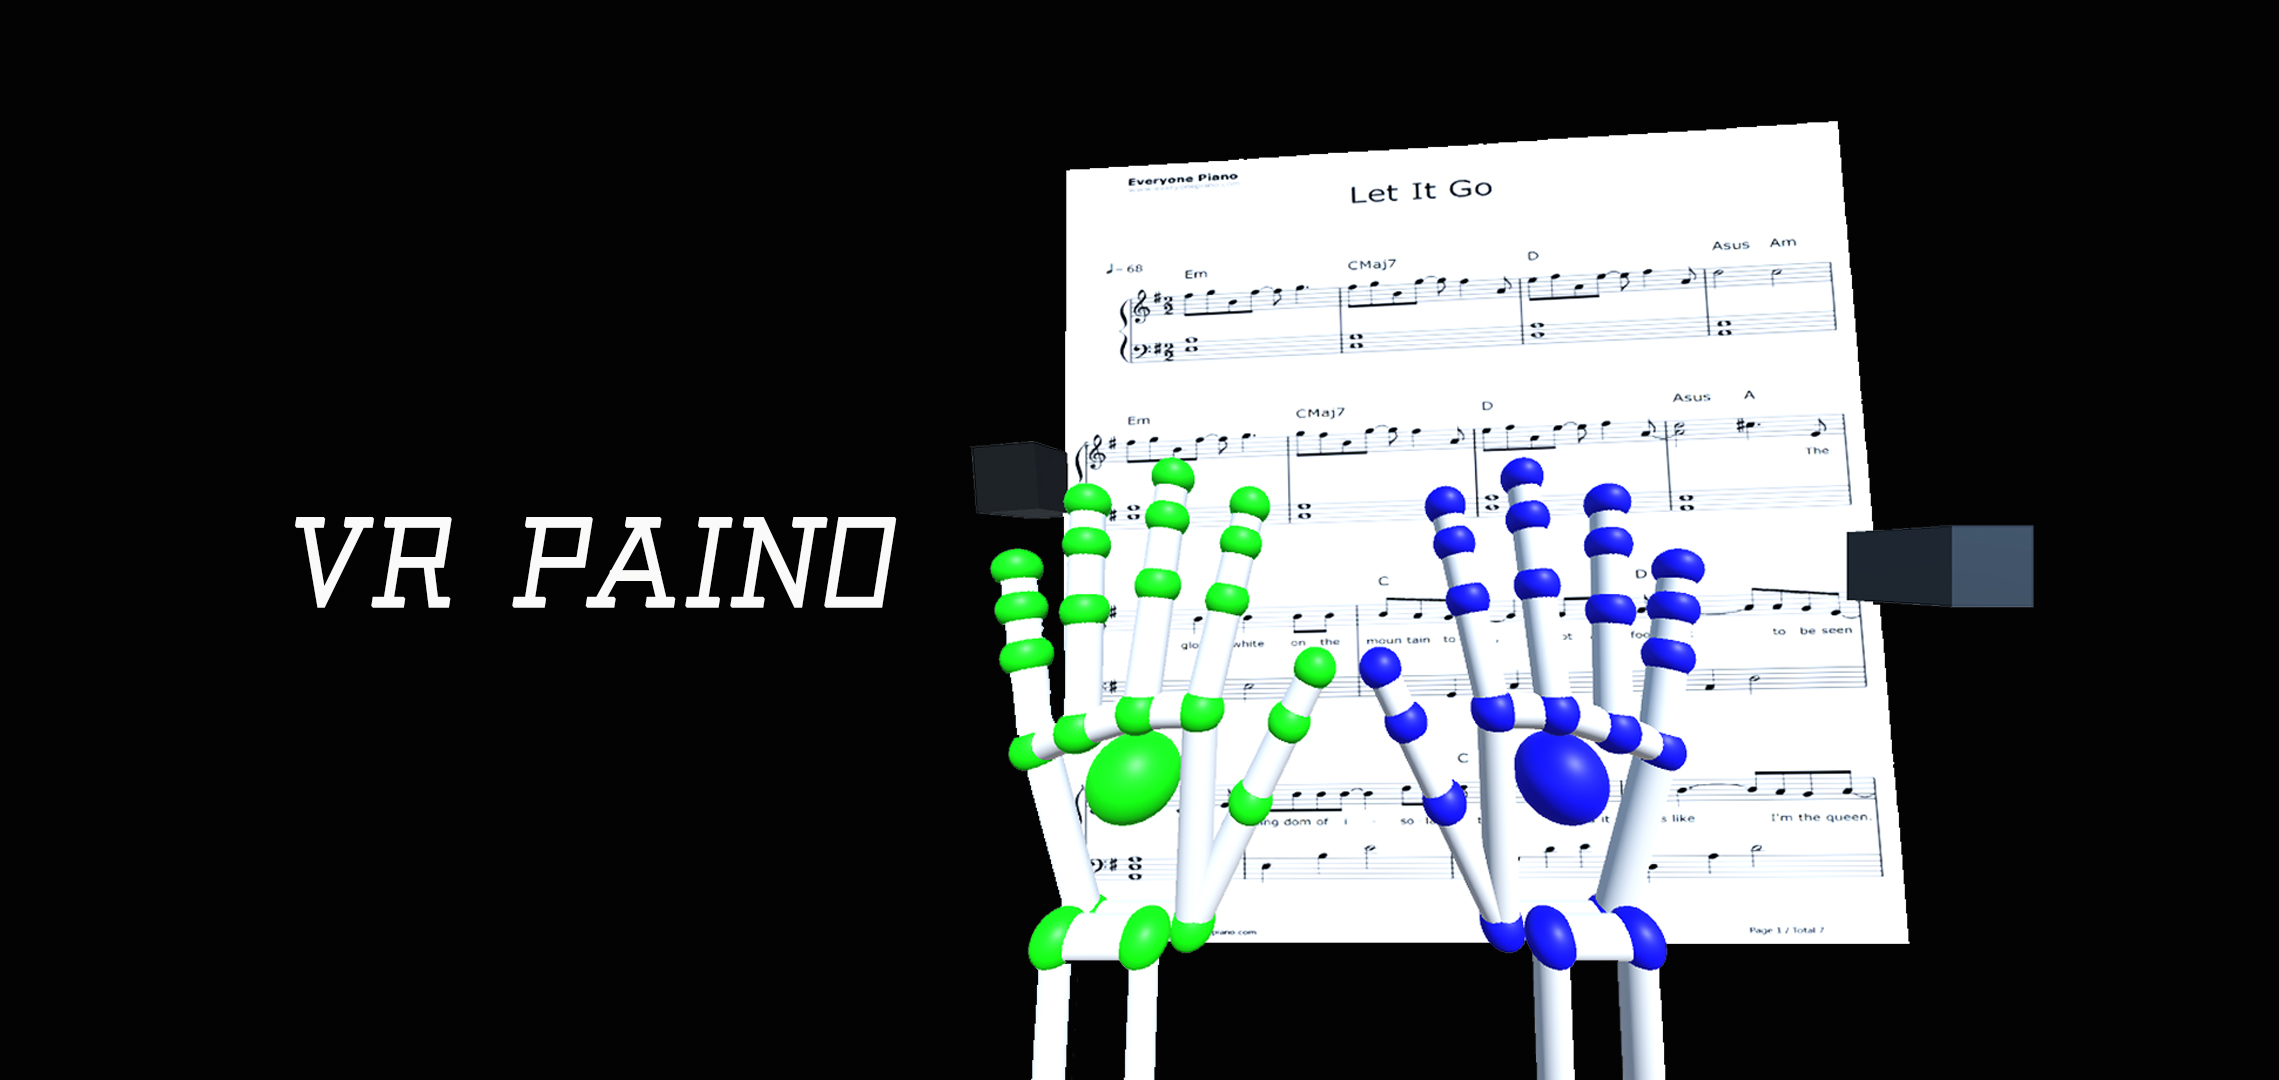
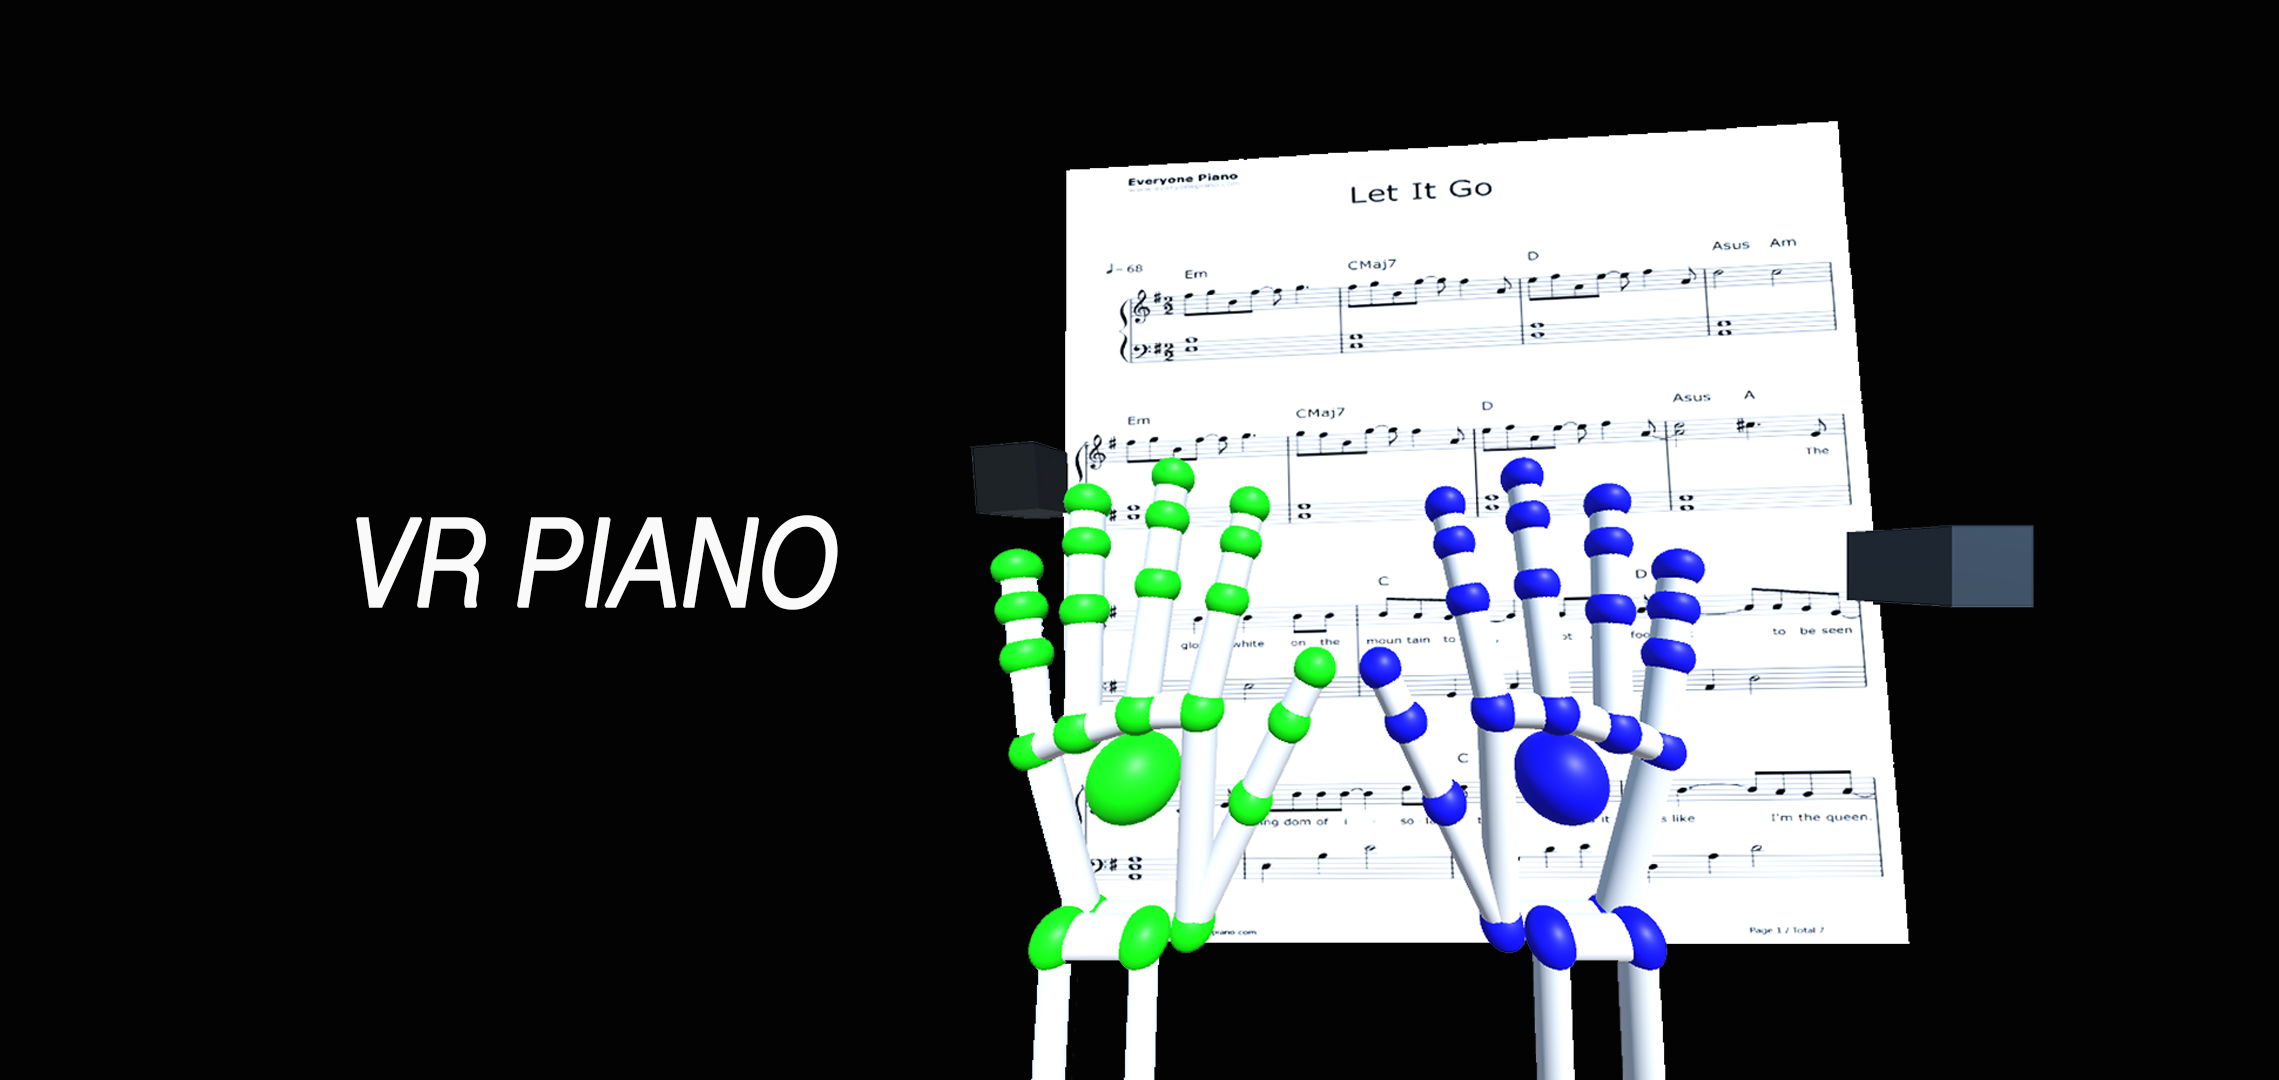
Font change, correct typo, add share button

Changed region(s): [[0.1246, 0.4583, 0.405, 0.5806]]

diff --git a/holo.html b/holo.html
@@ -99,7 +99,7 @@
             <!-- /.col-lg-10 -->
         </div>
 <div class="maintext">
-            <h1>The Holojam research platform is the project that Media Research Lab has been working on over a year.
+            <p>The Holojam research platform is the project that Media Research Lab has been working on over a year.
               Our specific research focus is on studying how people in the future might share a physical space together on a day to day basis,
               if they have the power-ups that come from being able to see literally any visual representation of each other and of the world around them that they wish -- whether or not that visual representation is physically possible.<br>
               Holojam supports investigations into how people in the future might share a physical space together,
@@ -108,7 +108,7 @@
               Holojam shows each freely roaming participant the world around them rebuilt entirely out of computer graphics.
                Repurposing currently available hardware, shared real-time user experiences are supported using only the graphics available on lightweight SmartPhone based HMDs,
                situated in a motion capture lab.<br>
-             I worked and still working as a Unity Developer in the research team. My work involves backend development, interaction design, interaction implementation.</h1>
+             I worked and still working as a Unity Developer in the research team. My work involves backend development, interaction design, interaction implementation.</p>
           </div>
 
         <!-- /.row -->
@@ -142,6 +142,12 @@
                     </li>
                     <li>
                         <a href="https://www.linkedin.com/in/wenbo-lan-a2aa5986"><i class="fa fa-linkedin fa-fw fa-3x"></i></a>
+                    </li>
+                    <li>
+                      <iframe src="https://www.facebook.com/plugins/share_button.php?href=http%3A%2F%2Fwww.wenbolan.com%2Fholo.html&layout=button_count&mobile_iframe=true&width=87&height=20&appId" width="87" height="20" style="border:none;overflow:hidden" scrolling="no" frameborder="0" allowTransparency="true"></iframe>
+                    </li>
+                    <li>
+                      <a href="https://twitter.com/share" class="twitter-share-button" data-via="leo92613" data-size="large">Tweet</a> <script>!function(d,s,id){var js,fjs=d.getElementsByTagName(s)[0],p=/^http:/.test(d.location)?'http':'https';if(!d.getElementById(id)){js=d.createElement(s);js.id=id;js.src=p+'://platform.twitter.com/widgets.js';fjs.parentNode.insertBefore(js,fjs);}}(document, 'script', 'twitter-wjs');</script>
                     </li>
                 </ul>
                 <hr class="small">

diff --git a/dual.html b/dual.html
@@ -83,14 +83,14 @@
             <!-- /.col-lg-10 -->
         </div>
 <div class="maintext">
-            <h1>This is Media Research Lab's most recent Holojam project centered around a performance between two dancers (Maria Lantin and Ken Perlin).
+            <p>This is Media Research Lab's most recent Holojam project centered around a performance between two dancers (Maria Lantin and Ken Perlin).
                We chose to represent the avatars in an abstract way, highlighting the central topic of the work: a collision of black holes.<br>
 	            The interesting thing about this project was the asymmetrical representation of the avatars.
               Each of the dancers saw each other as masks, which allowed for a more personal and intimate form of interaction,
               while the audience saw an abstract set of rings in the position of the hands and head.<br>
               I worked as technician in the team.<br>
-              More info can be found <u><a href="http://www.peppersghost.org/?page_id=341" target="_blank" style="color:white">here</a></u> and <u><a href="http://oneartspace.com/pdf/PressRelease-scores+traces.pdf" target="_blank" style="color:white">here</a></u> 
-            </h1>
+              More info can be found <u><a href="http://www.peppersghost.org/?page_id=341" target="_blank" style="color:white">here</a></u> and <u><a href="http://oneartspace.com/pdf/PressRelease-scores+traces.pdf" target="_blank" style="color:white">here</a></u>
+            </p>
           </div>
 
         <!-- /.row -->
@@ -124,6 +124,12 @@
                     </li>
                     <li>
                         <a href="https://www.linkedin.com/in/wenbo-lan-a2aa5986"><i class="fa fa-linkedin fa-fw fa-3x"></i></a>
+                    </li>
+                    <li>
+                      <iframe src="https://www.facebook.com/plugins/share_button.php?href=http%3A%2F%2Fwww.wenbolan.com%2Fdual.html&layout=button_count&mobile_iframe=true&width=87&height=20&appId" width="87" height="20" style="border:none;overflow:hidden" scrolling="no" frameborder="0" allowTransparency="true"></iframe>
+                    </li>
+                    <li>
+                      <a href="https://twitter.com/share" class="twitter-share-button" data-via="leo92613" data-size="large">Tweet</a> <script>!function(d,s,id){var js,fjs=d.getElementsByTagName(s)[0],p=/^http:/.test(d.location)?'http':'https';if(!d.getElementById(id)){js=d.createElement(s);js.id=id;js.src=p+'://platform.twitter.com/widgets.js';fjs.parentNode.insertBefore(js,fjs);}}(document, 'script', 'twitter-wjs');</script>
                     </li>
                 </ul>
                 <hr class="small">

diff --git a/index.html b/index.html
@@ -75,7 +75,7 @@
                 <div class="col-lg-12 text-center">
                     <div class="user" ></div>
                     <h2>&lt;A Coder&gt;</h2>
-                    <p class="lead">I'm currently a NYU Master student of Computer Science. My interests include Computer Vision, Computer Graphic and Visualization. At present I devote myself to VR developement and work at Media Research Lab of NYU as Software Developer under supervision of Prof. Ken Perlin.</p>
+                    <p class="lead">I'm currently a NYU Master student of Computer Science. My interests include Computer Vision, Computer Graphic and Visualization. At present I devote myself to VR development and work at Media Research Lab of NYU as Software Developer under supervision of Prof. Ken Perlin.</p>
                 </div>
             </div>
             <!-- /.row -->
@@ -162,7 +162,7 @@
                     <div class="row">
                         <div class="col-md-6">
                             <div class="portfolio-item">
-                                <a href="test1.html">
+                                <a href="hypercube.html">
                                     <img class="img-portfolio img-responsive" src="img/weibosmallsize01.jpg">
                                 </a>
                                 A VR 4-Dimensional world-building Project. On HTC Vive.
@@ -264,6 +264,12 @@
                         </li>
                         <li>
                             <a href="https://www.linkedin.com/in/wenbo-lan-a2aa5986"><i class="fa fa-linkedin fa-fw fa-3x"></i></a>
+                        </li>
+                        <li>
+                        <iframe src="https://www.facebook.com/plugins/share_button.php?href=http%3A%2F%2Fwww.wenbolan.com%2F&layout=button_count&mobile_iframe=true&width=87&height=20&appId" width="87" height="20" style="border:none;overflow:hidden" scrolling="no" frameborder="0" allowTransparency="true"></iframe>
+                        <li>
+                        <li>
+                          <a href="https://twitter.com/share" class="twitter-share-button" data-via="leo92613" data-size="large">Tweet</a> <script>!function(d,s,id){var js,fjs=d.getElementsByTagName(s)[0],p=/^http:/.test(d.location)?'http':'https';if(!d.getElementById(id)){js=d.createElement(s);js.id=id;js.src=p+'://platform.twitter.com/widgets.js';fjs.parentNode.insertBefore(js,fjs);}}(document, 'script', 'twitter-wjs');</script>
                         </li>
                     </ul>
                     <hr class="small">

diff --git a/4dobject.html b/4dobject.html
@@ -105,7 +105,7 @@
 
 
 <div class="maintext">
-            <h1>
+            <p>
               This is a project in which a participant can freely walk around four dimensional objects, such as a hypercube, a 24-Cell or an aerochoron, and can rotate those objects via a 4D virtual trackball, implemented as a generalization of the 3D virtual trackball. <br>
                The orientation of the 4D object is internally represented as a 4×4 rotation matrix.
 To implement the 4D virtual trackball, the interior of a unit sphere volume is lofted to the upper (w >= 0) half of the S2 bounding volume of an S3 hypersphere by mapping  [x,y,z] to [x,y,z,sqrt(1-x<sup>2</sup>-y<sup>2</sup>-z<sup>2</sup>)].<br>
@@ -115,7 +115,7 @@ When the ViveMote is outside the sphere, its position is projected down to the s
  System Requirement: a VR ready Windows Machine, HTC Vive<br>
         Dowaload Link: <u><a href="https://drive.google.com/file/d/0B2egdVOj_PusLWw1WTJnTmRLNmc/view?usp=sharing" target="_blank" style="color:white">Click me to download</a></u>
 
-</h1>
+</p>
           </div>
 
         <!-- /.row -->
@@ -150,6 +150,13 @@ When the ViveMote is outside the sphere, its position is projected down to the s
                     <li>
                         <a href="https://www.linkedin.com/in/wenbo-lan-a2aa5986"><i class="fa fa-linkedin fa-fw fa-3x"></i></a>
                     </li>
+                    <li>
+                      <iframe src="https://www.facebook.com/plugins/share_button.php?href=http%3A%2F%2Fwww.wenbolan.com%2F4dobject.html&layout=button_count&mobile_iframe=true&width=87&height=20&appId" width="87" height="20" style="border:none;overflow:hidden" scrolling="no" frameborder="0" allowTransparency="true"></iframe>
+                    </li>
+                    <li>
+                      <a href="https://twitter.com/share" class="twitter-share-button" data-via="leo92613" data-size="large">Tweet</a> <script>!function(d,s,id){var js,fjs=d.getElementsByTagName(s)[0],p=/^http:/.test(d.location)?'http':'https';if(!d.getElementById(id)){js=d.createElement(s);js.id=id;js.src=p+'://platform.twitter.com/widgets.js';fjs.parentNode.insertBefore(js,fjs);}}(document, 'script', 'twitter-wjs');</script>
+                    </li>
+
                 </ul>
                 <hr class="small">
                 <p class="text-muted">Copyright &copy; Wenbo Lan 2016</p>

diff --git a/vrdj.html b/vrdj.html
@@ -104,7 +104,7 @@
 
 
 <div class="maintext">
-            <h1>I am always curious what is an intuitive way of interaction in VR.
+            <p>I am always curious what is an intuitive way of interaction in VR.
               At present, the mainstream manufacturers design good controller for VR headsets.<br>
               However, for non-hardcore-gamers, it takes time for them to learn the basic input module of
               VR. Base on such fact, together with Zhen Cao, I design and implement this project in which you
@@ -116,7 +116,7 @@
               This project is included in Virtual Reality Lab 2016 Projects, <u><a href="http://timewavefestival.com/vr-lab-2016-projects/" target="_blank" style="color:white">Official Link</a></u><br>
               System Requirement: a MacOS machine, Oculus DK2, Leap Motion<br>
               Dowaload Link: <u><a href="https://drive.google.com/open?id=0B2egdVOj_PusRDZWbmtzR25YeFk" target="_blank" style="color:white">Click me to download</a></u>
-            </h1>
+            </p>
           </div>
 
         <!-- /.row -->
@@ -150,6 +150,12 @@
                     </li>
                     <li>
                         <a href="https://www.linkedin.com/in/wenbo-lan-a2aa5986"><i class="fa fa-linkedin fa-fw fa-3x"></i></a>
+                    </li>
+                    <li>
+                      <iframe src="https://www.facebook.com/plugins/share_button.php?href=http%3A%2F%2Fwww.wenbolan.com%2Fvrdj.html&layout=button_count&mobile_iframe=true&width=87&height=20&appId" width="87" height="20" style="border:none;overflow:hidden" scrolling="no" frameborder="0" allowTransparency="true"></iframe>
+                    </li>
+                    <li>
+                      <a href="https://twitter.com/share" class="twitter-share-button" data-via="leo92613" data-size="large">Tweet</a> <script>!function(d,s,id){var js,fjs=d.getElementsByTagName(s)[0],p=/^http:/.test(d.location)?'http':'https';if(!d.getElementById(id)){js=d.createElement(s);js.id=id;js.src=p+'://platform.twitter.com/widgets.js';fjs.parentNode.insertBefore(js,fjs);}}(document, 'script', 'twitter-wjs');</script>
                     </li>
                 </ul>
                 <hr class="small">

diff --git a/hypercube.html b/hypercube.html
@@ -99,7 +99,7 @@
         </div>
 
 <div class="maintext">
-            <h1>What do you think of a "Minecraft" game in VR, pretty cool, Right? Now, think about using 4 dimensional cubes
+            <p>What do you think of a "Minecraft" game in VR, pretty cool, Right? Now, think about using 4 dimensional cubes
             to build your world! This project is something that probably you can not imagin in your everyday life.<br>
            Collaborating with Prof. Ken Perlin, I design and implement the project in VR.
          As an application of 4D objects, I use dynamic mesh to represent the 4D hypercube. With simple creating, choosing,
@@ -107,7 +107,7 @@
         Note: This project is still undergoing development, let's see what happen next!<br>
         System Requirement: a VR ready Windows Machine, HTC Vive<br>
         Dowaload Link: <u><a href="https://drive.google.com/file/d/0B2egdVOj_PusUHFTbFNLdUJKOWc/view?usp=sharing" target="_blank" style="color:white">Click me to download</a></u>
-      </h1>
+      </p>
           </div>
 
         <!-- /.row -->
@@ -141,6 +141,12 @@
                     </li>
                     <li>
                         <a href="https://www.linkedin.com/in/wenbo-lan-a2aa5986"><i class="fa fa-linkedin fa-fw fa-3x"></i></a>
+                    </li>
+                    <li>
+                      <iframe src="https://www.facebook.com/plugins/share_button.php?href=http%3A%2F%2Fwww.wenbolan.com%2Fhypercube.html&layout=button_count&mobile_iframe=true&width=87&height=20&appId" width="87" height="20" style="border:none;overflow:hidden" scrolling="no" frameborder="0" allowTransparency="true"></iframe>
+                    </li>
+                    <li>
+                      <a href="https://twitter.com/share" class="twitter-share-button" data-via="leo92613" data-size="large">Tweet</a> <script>!function(d,s,id){var js,fjs=d.getElementsByTagName(s)[0],p=/^http:/.test(d.location)?'http':'https';if(!d.getElementById(id)){js=d.createElement(s);js.id=id;js.src=p+'://platform.twitter.com/widgets.js';fjs.parentNode.insertBefore(js,fjs);}}(document, 'script', 'twitter-wjs');</script>
                     </li>
                 </ul>
                 <hr class="small">

diff --git a/days.html b/days.html
@@ -99,11 +99,11 @@
             <!-- /.col-lg-10 -->
         </div>
 <div class="maintext">
-            <h1>This is Media Research Lab's Halloween-theme Holojam-based VR experience.<br>
+            <p>This is Media Research Lab's Halloween-theme Holojam-based VR experience.<br>
             Participants wearing untethered VR headsets will get to be ghouls,
             ghosts and skeletons who draw in the air, play musical instruments and dance hard enough to wake the dead.
             Everyone will be dancing together on a future reality Day of the Dead float which will be traveling through a celebrating virtual city.<br>
-            I worked as Unity Developer in the team.</h1>
+            I worked as Unity Developer in the team.</p>
           </div>
 
         <!-- /.row -->
@@ -137,6 +137,12 @@
                     </li>
                     <li>
                         <a href="https://www.linkedin.com/in/wenbo-lan-a2aa5986"><i class="fa fa-linkedin fa-fw fa-3x"></i></a>
+                    </li>
+                    <li>
+                      <iframe src="https://www.facebook.com/plugins/share_button.php?href=http%3A%2F%2Fwww.wenbolan.com%2Fdays.html&layout=button_count&mobile_iframe=true&width=87&height=20&appId" width="87" height="20" style="border:none;overflow:hidden" scrolling="no" frameborder="0" allowTransparency="true"></iframe>
+                    </li>
+                    <li>
+                      <a href="https://twitter.com/share" class="twitter-share-button" data-via="leo92613" data-size="large">Tweet</a> <script>!function(d,s,id){var js,fjs=d.getElementsByTagName(s)[0],p=/^http:/.test(d.location)?'http':'https';if(!d.getElementById(id)){js=d.createElement(s);js.id=id;js.src=p+'://platform.twitter.com/widgets.js';fjs.parentNode.insertBefore(js,fjs);}}(document, 'script', 'twitter-wjs');</script>
                     </li>
                 </ul>
                 <hr class="small">

diff --git a/vrpiano.html b/vrpiano.html
@@ -99,10 +99,11 @@
             <!-- /.col-lg-10 -->
         </div>
 <div class="maintext">
-            <h1>This is the Thesis Project of Sam Cheng, IDM 2016.
+            <p>This is the Thesis Project of Sam Cheng, IDM 2016.
             I'm the software developer in the project.<br>
           VRPiano is an application for virtual reality headsets which improves the experience of learning to play piano through immediate feedback and customized environments.<br>
-        In this project, we use Oculus Rift, Leap Motion, Midi input e-piano to implement the whole system.</h1>
+        In this project, we use Oculus Rift, Leap Motion, Midi input e-piano to implement the whole system.
+      </p>
           </div>
 
         <!-- /.row -->
@@ -136,6 +137,12 @@
                     </li>
                     <li>
                         <a href="https://www.linkedin.com/in/wenbo-lan-a2aa5986"><i class="fa fa-linkedin fa-fw fa-3x"></i></a>
+                    </li>
+                    <li>
+                      <iframe src="https://www.facebook.com/plugins/share_button.php?href=http%3A%2F%2Fwww.wenbolan.com%2Fvrpiano.html&layout=button_count&mobile_iframe=true&width=87&height=20&appId" width="87" height="20" style="border:none;overflow:hidden" scrolling="no" frameborder="0" allowTransparency="true"></iframe>
+                    </li>
+                    <li>
+                      <a href="https://twitter.com/share" class="twitter-share-button" data-via="leo92613" data-size="large">Tweet</a> <script>!function(d,s,id){var js,fjs=d.getElementsByTagName(s)[0],p=/^http:/.test(d.location)?'http':'https';if(!d.getElementById(id)){js=d.createElement(s);js.id=id;js.src=p+'://platform.twitter.com/widgets.js';fjs.parentNode.insertBefore(js,fjs);}}(document, 'script', 'twitter-wjs');</script>
                     </li>
                 </ul>
                 <hr class="small">
